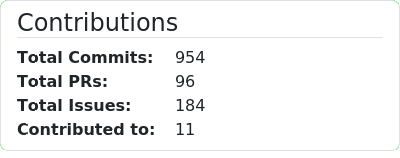
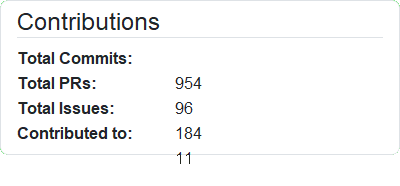
Minor back-end tweaks

diff --git a/contributions.html b/contributions.html
@@ -1,15 +1,12 @@
 <!DOCTYPE html>
 <html lang="en">
     <head>
-        <meta name="imgkit-format" content="png"/>
-        <meta name="imgkit-width" content="400"/>
-
         <meta charset="utf-8">
-        <meta name="viewport" content="width=device-width, initial-scale=1, shrink-to-fit=no">
+        <meta name="viewport" content="width=400, initial-scale=1, shrink-to-fit=no">
         <link rel="stylesheet" href="https://stackpath.bootstrapcdn.com/bootstrap/4.3.1/css/bootstrap.min.css" integrity="sha384-ggOyR0iXCbMQv3Xipma34MD+dH/1fQ784/j6cY/iJTQUOhcWr7x9JvoRxT2MZw1T" crossorigin="anonymous">
         <style>
             * {
-                font-family: Sans-serif;
+                font-family: Helvetica, Sans-serif;
             }
 
             html{

diff --git a/languages.html b/languages.html
@@ -1,11 +1,8 @@
 <!DOCTYPE html>
 <html lang="en">
     <head>
-        <meta name="imgkit-format" content="png"/>
-        <meta name="imgkit-width" content="400"/>
-
         <meta charset="utf-8">
-        <meta name="viewport" content="width=device-width, initial-scale=1, shrink-to-fit=no">
+        <meta name="viewport" content="width=400, initial-scale=1, shrink-to-fit=no">
         <link rel="stylesheet" href="https://stackpath.bootstrapcdn.com/bootstrap/4.3.1/css/bootstrap.min.css" integrity="sha384-ggOyR0iXCbMQv3Xipma34MD+dH/1fQ784/j6cY/iJTQUOhcWr7x9JvoRxT2MZw1T" crossorigin="anonymous">
         <style>
             * {

diff --git a/readme.py b/readme.py
@@ -22,11 +22,15 @@ int_langs = 8
 int_history   = 5
 int_max_lines = 4
 
+
 # first arg is python compile; second arg is oauth
 def main():
     g    = Github(sys.argv[1])
     user = g.get_user()
     now  = datetime.utcnow()
+
+    req = g.get_rate_limit().core.remaining
+    print("Requests remaining:", req)
 
     str_template = codecs.open("README.template.md", "r", encoding="utf-8").read()
 
@@ -36,11 +40,20 @@ def main():
         'hide_lang'         : arr_hide_lang
     })
 
-    # local installation
-    # config = imgkit.config(wkhtmltoimage='C:\\Program Files\\wkhtmltopdf\\bin\\wkhtmltoimage.exe')  # fix imgkit defect
+    print("Requests used:", req - g.get_rate_limit().core.remaining)
 
-    int_threshold = 130
-    display = Display().start()
+    # local installation
+    config  = None # if not sys.argv[2] else imgkit.config(wkhtmltoimage='C:\\Program Files\\wkhtmltopdf\\bin\\wkhtmltoimage.exe')  # fix wkhtmltoimage defect
+    display = None if sys.argv[2] else Display().start()  # virtual display for workflow
+
+    options = {
+        "enable-local-file-access": None,
+        "format": "png",
+        "width": 400,
+        "quality": 100,
+    }
+
+    int_threshold = 135
     # contributions
     str_file = "contributions"
 
@@ -51,7 +64,7 @@ def main():
         .replace("{{ total_issues }}" , str(map_statistics['issues'])) \
         .replace("{{ contributions }}", str(map_statistics['contributions']))
 
-    imgkit.from_string(str_html, str_file) #, config=config)
+    imgkit.from_string(str_html, str_file, config=config, options=options)
     if os.path.exists(f"{str_file}.png"):
         os.remove(f"{str_file}.png")
     os.rename(str_file, f"{str_file}.png")  # defective imgkit hotfix
@@ -67,7 +80,7 @@ def main():
         str_languages += str_language.replace("{{ language }}", lang).replace("{{ percent }}", format(percent, ".2f"))
 
     str_html = codecs.open(f"{str_file}.html", "r", encoding="utf-8").read().replace("{{ languages }}", str_languages)
-    imgkit.from_string(str_html, str_file) #, config=config)
+    imgkit.from_string(str_html, str_file, config=config, options=options)
     if os.path.exists(f"{str_file}.png"):
         os.remove(f"{str_file}.png")
     os.rename(str_file, f"{str_file}.png")  # defective imgkit hotfix
@@ -95,7 +108,9 @@ def main():
     # write
 
     codecs.open("README.md", "w", encoding="utf-8").write(str_template)
-    display.stop()
+
+    if display:
+        display.stop()
 
     return
 

diff --git a/ghStats.py b/ghStats.py
@@ -51,8 +51,6 @@ def getStatistics(config):
     for i in map_lang_contrib:
         map_lang[i[0]] = float(i[1]) * 100 / double_total
 
-    # str_gist += f"{lang:11}{str_bar} {percent:05.2f}%\n"
-
     return {
         'languages': map_lang,
         'statistics': map_stats

diff --git a/README.md b/README.md
@@ -79,4 +79,4 @@
   > workflow fix attempt
 
 ---
-<p align="right">Last updated September 25, 2020 at 12:51 PM (EST)</p>
+<p align="right">Last updated September 25, 2020 at 01:03 PM (EST)</p>
